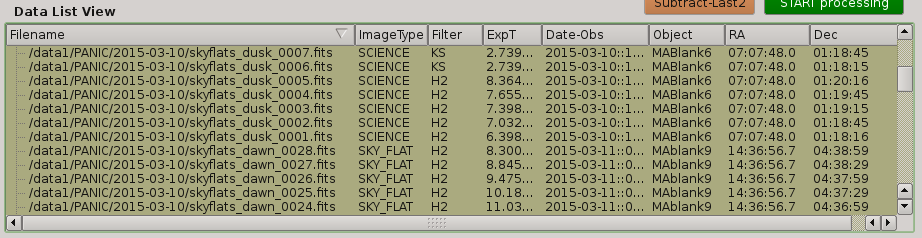
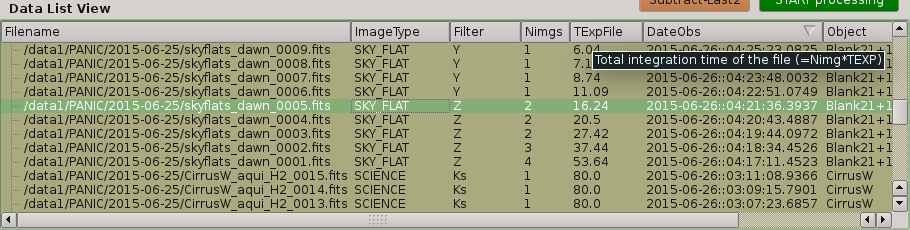
Some code styling and doc update for new QL columns Nimgs and TExpFile.

diff --git a/reduce/astrowarp.py b/reduce/astrowarp.py
@@ -616,8 +616,8 @@ class AstroWarp(object):
             1. Call SExtractor to create pixel object list (ldac catalog)
             2. Call SCAMP to make the distortion calibration of the 
             overlapped set of frames (.head calibration)
-            3. Call SWARP to make the coadd and regriding, using the .head files 
-            generated by SCAMP and containing the distortion model parameters
+            3. Call SWARP to make the coadd and registering, using the .head files 
+            generated by SCAMP and containing the distortion model parameters.
             4. Make the final astrometric calibration the the coadded frame (Astrometry.Net).
             
         
@@ -714,7 +714,7 @@ class AstroWarp(object):
         swarp.config['CONFIG_FILE'] = self.papi_home + self.config_dict['config_files']['swarp_conf']
         basename, extension = os.path.splitext(solved_files[0])
         swarp.ext_config['HEADER_SUFFIX'] = extension + ".head"  # very important !
-        if not os.path.isfile(solved_files[0]+".head"):
+        if not os.path.isfile(solved_files[0] + ".head"):
             raise Exception ("Cannot find required .head file")
         
         
@@ -723,7 +723,7 @@ class AstroWarp(object):
         swarp.ext_config['WEIGHTOUT_NAME'] = output_path.replace(".fits", ".weight.fits")
                                                                  
         # "Projected" weight-maps are created only if weight-maps were given in input.
-        # That is not true !!!
+        # Weight are very important to get a good coadd/mosaic !!
         if os.path.isfile(basename + ".weight" + extension):
             swarp.ext_config['WEIGHT_TYPE'] = 'MAP_WEIGHT'
             swarp.ext_config['WEIGHT_SUFFIX'] = '.weight' + extension
@@ -738,8 +738,8 @@ class AstroWarp(object):
         # To avoid any problem concerning SWARP because by chance could exist
         # a old file about IMAGEOUT_NAME.head what would cause a bad resampling
         # and combination of files, we remove any IMAGEOUT_NAME.head
-        if os.path.exists(swarp.ext_config['IMAGEOUT_NAME']+".head"):
-            os.remove(swarp.ext_config['IMAGEOUT_NAME']+".head")
+        if os.path.exists(swarp.ext_config['IMAGEOUT_NAME'] + ".head"):
+            os.remove(swarp.ext_config['IMAGEOUT_NAME'] + ".head")
                 
         """
         #IMPORTANT: Rename the .head files in order to be found by SWARP
@@ -917,6 +917,7 @@ class AstroWarp(object):
         return self.coadded_file
 
 
+
 ################################################################################
 # main
 ################################################################################
@@ -992,7 +993,7 @@ in principle previously reduced, but not mandatory.
             
         if len(filelist) == 1:
             # Astromatic
-            if options.engine=="SCAMP":
+            if options.engine == "SCAMP":
                 try:
                     log.debug("[Astrowarp] Solving with SCAMP engine")
                     doAstrometry(filelist[0], output_image=options.output_filename,

diff --git a/QL4/panicQL.py b/QL4/panicQL.py
@@ -1281,11 +1281,14 @@ class Ui_panicQL(object):
         self.listView_dataS.headerItem().setText(0, _translate("panicQL", "Filename", None))
         self.listView_dataS.headerItem().setText(1, _translate("panicQL", "ImageType", None))
         self.listView_dataS.headerItem().setText(2, _translate("panicQL", "Filter", None))
-        self.listView_dataS.headerItem().setText(3, _translate("panicQL", "ExpT", None))
-        self.listView_dataS.headerItem().setText(4, _translate("panicQL", "Date-Obs", None))
-        self.listView_dataS.headerItem().setText(5, _translate("panicQL", "Object", None))
-        self.listView_dataS.headerItem().setText(6, _translate("panicQL", "RA", None))
-        self.listView_dataS.headerItem().setText(7, _translate("panicQL", "Dec", None))
+        self.listView_dataS.headerItem().setText(3, _translate("panicQL", "Nimgs", None))
+        self.listView_dataS.headerItem().setToolTip(3, _translate("panicQL", "Number of images of the cube (=1 if integrated)", None))
+        self.listView_dataS.headerItem().setText(4, _translate("panicQL", "TExpFile", None))
+        self.listView_dataS.headerItem().setToolTip(4, _translate("panicQL", "Total integration time of the file (=Nimg*TEXP)", None))
+        self.listView_dataS.headerItem().setText(5, _translate("panicQL", "DateObs", None))
+        self.listView_dataS.headerItem().setText(6, _translate("panicQL", "Object", None))
+        self.listView_dataS.headerItem().setText(7, _translate("panicQL", "RA", None))
+        self.listView_dataS.headerItem().setText(8, _translate("panicQL", "Dec", None))
         self.lineEdit_queue_size.setToolTip(_translate("panicQL", "Number of task currently queued", None))
         self.lineEdit_queue_size.setText(_translate("panicQL", "0", None))
         self.label.setText(_translate("panicQL", "#Tasks in the queue", None))

diff --git a/misc/fileUtils.py b/misc/fileUtils.py
@@ -28,8 +28,8 @@ import astropy.io.fits as fits
 def removefiles(*patterns):
 
     """
-        Remove files with UNIX-like filename pattern matching.
-        No questions asked, so be careful!
+    Remove files with UNIX-like filename pattern matching.
+    No questions asked, so be careful!
     """
     
     # 'patterns' is an array or tuple of filename patterns. Can, of course,
@@ -47,7 +47,7 @@ def removefiles(*patterns):
         except OSError, errstr:
             # Succeed even if the directory was not there (and put warning in log)
             log.warning(errstr)
-            raise Exception('Cannot list dir %s' % dirname)
+            #raise Exception('Cannot list dir %s' % dirname)
         
         # Check each file in the directory list
         for file in filelist:
@@ -61,8 +61,8 @@ def removefiles(*patterns):
                     #print "removefiles[DEBUG]: file %s removed"%os.path.join(dirname, file)
                 except OSError, errstr:
                     # Succeed even if there were no files (and put warning in log)
-                    log.error(errstr)
-                    raise
+                    log.warning(errstr)
+                    # Exception is not re-raised
 
 ################################################################################
 

diff --git a/docs/running_papi.rst b/docs/running_papi.rst
@@ -1016,6 +1016,25 @@ File papi.cfg::
     )
 
 
+Principal parameters to set
+---------------------------
+Although all parameteres of the config file ($PAPI_CONFIG) are important, some of them have special 
+relevance to the right execution and in the results obtained (in bold are default values):
+
+- apply_dark_flat: (0 | **1** | 2)
+
+- remove_crosstalk: (**True** | False)  
+
+- nonlinearity::apply: (True | **False**)
+
+- ext_calibration_db: (path)
+
+- group_by: (**ot** | group)
+
+- bpm::mode (**none** | fix | grab ) 
+
+
+
 
 Getting PAPI Data
 =================

diff --git a/docs/quick_look.rst b/docs/quick_look.rst
@@ -322,8 +322,11 @@ Filename
   Full path name of the file found in the 
 Image type
   The type of the FITS file detected: DARK, DOME_FLAT, SKY_FLAT, FOCUS, SCIENCE 
-ExpT
-  Exposition time of the file (EXPTIME keyword)
+Nimgs
+  Number of images (layers) of the cube; if image is integrated (no cube), then = 1.
+TExpFile
+  Total Exposition time of the file (= Nimgs * EXPTIME)
+  (Thus, EXPTIME = TExpFile / Nimgs)
 Date-Obs
   Observation data of the file (DATE-OBS keyword)
 Object

diff --git a/docs/index.rst b/docs/index.rst
@@ -44,7 +44,9 @@ optimized for them.
 In addition to this html version of the manual, there is also a pdf_ version to download.
 
 
-**Development Team:** José M. Ibáñez (IAA-CSIC)
+**Development:** José M. Ibáñez (IAA-CSIC)
+
+**Contribution:** PANIC Team
 
 Caveat
 ======
